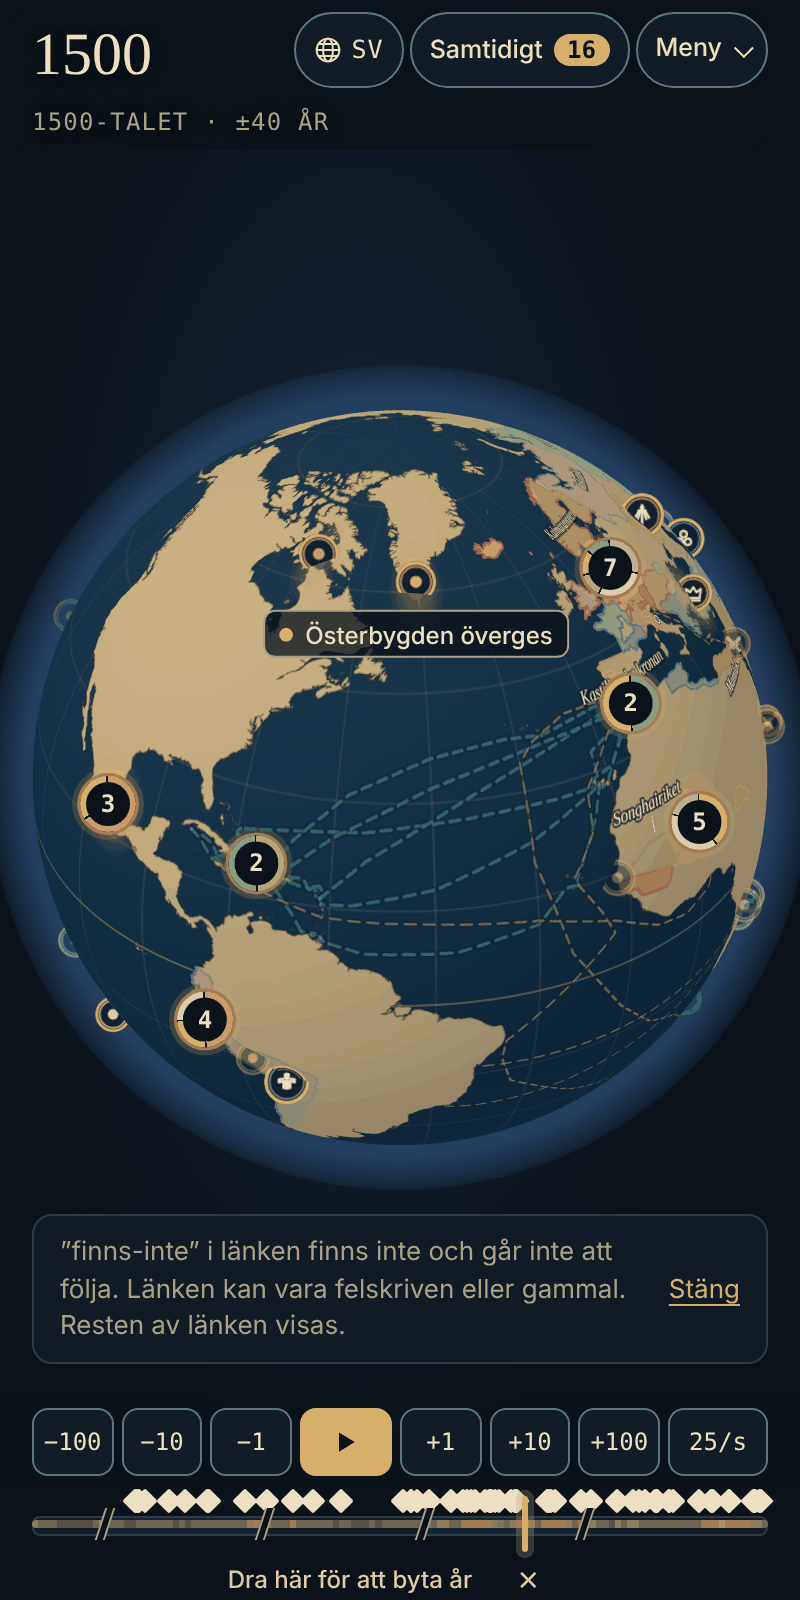
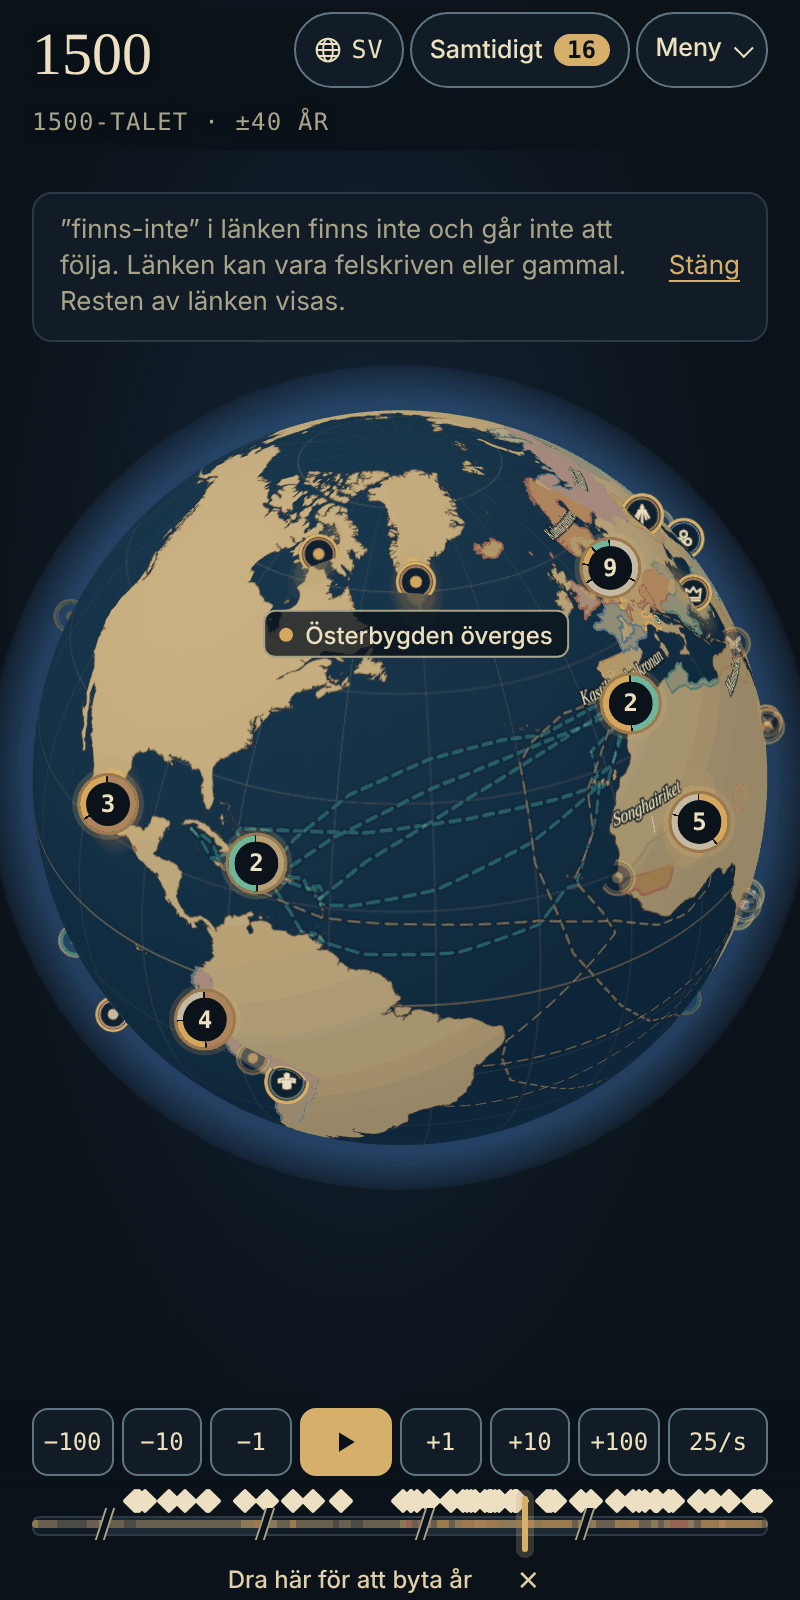
Trasig länk: raden under årtalet i smal skärm, nya skärmbilder och dokumentation (#1324)
Claude-Session: https://claude.ai/code/session_019xNoaCB1MahHDo2AS5QtEE

diff --git a/css/style.css b/css/style.css
@@ -1452,7 +1452,7 @@ details.used-by summary:hover { color: var(--parchment); }
 }
 .focus-notice[hidden] { display: none; }
 /* Besked om en trasig länk (#1324): samma plats och utseende som .focus-notice, men i lagret --z-band och med ogenomskinlig botten, så att
-   raden ligger över Samtidigt-kortet som startläget öppnar i mobil. Kortet tar emot klick (Stäng) medan statusraden runt det släpper
+   raden ligger över kort som ligger kvar (Samtidigt-kortet i bred skärm). Kortet tar emot klick (Stäng) medan statusraden runt det släpper
    igenom dem till kartan. */
 .link-notice {
   position: absolute; z-index: var(--z-band); left: 50%; bottom: 118px; transform: translateX(-50%);
@@ -1466,6 +1466,11 @@ details.used-by summary:hover { color: var(--parchment); }
 .link-notice-card[hidden] { display: none; }
 /* Visas Fokus-beskedet samtidigt (en trasig tur och ett tema som saknas i samma länk) ligger raden ovanför det, så att de inte täcker varandra */
 .focus-notice:not([hidden]) ~ .link-notice { bottom: 214px; }
+/* Smal skärm: raden ligger under årtalet i stället för över tidsreglaget, eftersom startläget öppnar Samtidigt-kortet som ett ark där nere och
+   raden inte ska dölja det. Himlen ovanför globen är tom, och inget ligger ovanpå förrän besökaren agerar (då stängs raden). */
+@media (max-width: 760px) {
+  .link-notice, .focus-notice:not([hidden]) ~ .link-notice { top: calc(env(safe-area-inset-top, 0px) + 96px); bottom: auto; }
+}
 .link-notice-text { margin: 0; flex: 1 1 auto; }
 .link-notice-card .link-btn { flex: none; min-height: 32px; font: inherit; white-space: nowrap; }
 @media (max-width: 760px) { .link-notice-card .link-btn { min-height: 44px; } }

diff --git a/docs/arkitektur.md b/docs/arkitektur.md
@@ -252,7 +252,7 @@ Vyn står i adressen efter `#`, så att en kopierad länk öppnar samma vy och B
 
 **Reserverat (#397):** `d` är reserverat för tidsdomänen i version 8 (människans eller jordens historia, tillståndets fält `domain`). Det skrivs inte än, och en länk med `d` öppnas som om fältet saknades. `RESERVED_HASH_FIELDS` i `js/url-state.js` och `RESERVED_STATE_KEYS` i `js/state.js` listar namnen, och testet stoppar en ändring som använder dem till något annat ([beslut](beslut/2026-11-13-tidsdoman-reserverad.md)).
 
-Lugn rörelse står inte i länken, eftersom det är besökarens egen inställning. Okända fält hoppas över, och en trasig länk (till exempel ett krig som inte finns) ger det vanliga startläget utan fel. Den äldre kortformen `?c=lat,lon,zoom` öppnar kameran vid startens år och skrivs sedan om till den vanliga hashen. **Trasig länk, felkanalen (#1324):** `decodeProblems(hash, search)` i `js/url-state.js` (ren funktion utan DOM, kastar aldrig) säger vad i en länk som inte gick att tolka, som en lista med `{ kind, why, value }`: `tour` (`t` eller `?tur=` med tecken som inget tur-id kan ha), `focus` (`f` som inte är `<typ>:<id>` med en typ ur `FOCUS_TYPES`, kontrollen delas via `parseFocusKey()` i `js/state.js`) och `year` (`y` som inte är ett tal; `y=` utan värde räknas som saknat). `decodeHash()` lägger listan i `problems` när något är trasigt (fältet saknas annars, så länkarkivet är oförändrat) och ersätter `focusError`; ett ogiltigt år ger fortfarande `null`. Det som bara datan kan avgöra lägger `js/controllers/address.js` till i samma lista: en tur som inte finns eller inte gick att hämta (`why: 'missing'` eller `'fetch'`, ur `app.lesson.whyNot`) och ett krig, rike, en religion eller resa som inte finns (typens `exists()`, eller att `startFocus` säger nej utan eget besked och utan att ett läge stod i vägen). Listan går till `js/controllers/link-notice.js`, som skriver en rad i `#link-notice` (`role="status"`, samma plats och utseende som `#focus-notice`, namnet ur adressen som `textContent`, kapat till 40 tecken): ett problem per slag, i ordningen tur, fokus, år. Länken öppnas som förut och adressen skrivs inte om till något annat än förut; tur- och lektionsläget rörs inte. En lektionslänk till en tur som saknas förklaras av lektionsbandet och får ingen andra rad, och en länk med en giltig tur läser inte resten. Raden stängs av Stäng, Escape, nästa handling, ett nytt år, uppspelning, Bakåt/Framåt, en öppnad yta och efter 30 sekunder, och är anmäld i stängregistret som gruppen `besked` (`js/surfaces.js`: den stänger inget, och varje annan grupp stänger den). Nästa adressdel, till exempel platsernas (#1162), lägger sina fel i samma lista. Beslut: [2026-11-14-trasig-lank-1324](beslut/2026-11-14-trasig-lank-1324.md).
+Lugn rörelse står inte i länken, eftersom det är besökarens egen inställning. Okända fält hoppas över, och en trasig länk (till exempel ett krig som inte finns) ger det vanliga startläget utan fel. Den äldre kortformen `?c=lat,lon,zoom` öppnar kameran vid startens år och skrivs sedan om till den vanliga hashen. **Trasig länk, felkanalen (#1324):** `decodeProblems(hash, search)` i `js/url-state.js` (ren funktion utan DOM, kastar aldrig) säger vad i en länk som inte gick att tolka, som en lista med `{ kind, why, value }`: `tour` (`t` eller `?tur=` med tecken som inget tur-id kan ha), `focus` (`f` som inte är `<typ>:<id>` med en typ ur `FOCUS_TYPES`, kontrollen delas via `parseFocusKey()` i `js/state.js`) och `year` (`y` som inte är ett tal; `y=` utan värde räknas som saknat). `decodeHash()` lägger listan i `problems` när något är trasigt (fältet saknas annars, så länkarkivet är oförändrat) och ersätter `focusError`; ett ogiltigt år ger fortfarande `null`. Det som bara datan kan avgöra lägger `js/controllers/address.js` till i samma lista: en tur som inte finns eller inte gick att hämta (`why: 'missing'` eller `'fetch'`, ur `app.lesson.whyNot`) och ett krig, rike, en religion eller resa som inte finns (typens `exists()`, eller att `startFocus` säger nej utan eget besked och utan att ett läge stod i vägen). Listan går till `js/controllers/link-notice.js`, som skriver en rad i `#link-notice` (`role="status"`, samma utseende som `#focus-notice`; över tidsreglaget i bred skärm och under årtalet i smal skärm, så att den inte döljer Samtidigt-arket; namnet ur adressen som `textContent`, kapat till 40 tecken): ett problem per slag, i ordningen tur, fokus, år. Länken öppnas som förut och adressen skrivs inte om till något annat än förut; tur- och lektionsläget rörs inte. En lektionslänk till en tur som saknas förklaras av lektionsbandet och får ingen andra rad, och en länk med en giltig tur läser inte resten. Raden stängs av Stäng, Escape, nästa handling, ett nytt år, uppspelning, Bakåt/Framåt, en öppnad yta och efter 30 sekunder, och är anmäld i stängregistret som gruppen `besked` (`js/surfaces.js`: den stänger inget, och varje annan grupp stänger den). Nästa adressdel, till exempel platsernas (#1162), lägger sina fel i samma lista. Beslut: [2026-11-14-trasig-lank-1324](beslut/2026-11-14-trasig-lank-1324.md).
 
 En tur i adressen (`t`, eller den äldre formen `?tur=<id>`) går före resten av länken; finns turen inte gäller resten av länken som vanligt. `?tur=` flyttas in i hashen när turen har startat.
 

diff --git a/docs/beslut/2026-11-14-trasig-lank-1324.md b/docs/beslut/2026-11-14-trasig-lank-1324.md
@@ -5,7 +5,7 @@
 ## Beslut
 1. **En felkanal i adressläsningen, inte en gren per typ.** `decodeProblems(hash, search)` i `js/url-state.js` är en ren funktion utan DOM som ger en lista med `{ kind, why, value }`: `tour` (t eller `?tur=` med tecken som inget tur-id kan ha), `focus` (f som inte är `<typ>:<id>` med en känd typ) och `year` (y som inte är ett tal). `decodeHash()` lägger samma lista i fältet `problems`, men bara när något är trasigt, och ersätter det halvbyggda `focusError` (som bara testet läste). Ett år som inte är ett tal ger fortfarande `null` från `decodeHash()`, så den länken läses med `decodeProblems()`. Det som bara datan kan avgöra (finns turen, finns kriget?) lägger `js/controllers/address.js` till i samma lista: `why` är då `missing`, eller `fetch` när turerna inte gick att hämta.
 2. **Länkarna öppnas som förut.** Felkanalen ändrar ingen tolkning och skriver inget i adressen: samma startläge, samma omskrivning av adressen, ingen ny blockering. Tillståndet, lägeskontraktet (`MODE_RULES` i `js/state.js`) och turläget och lektionsläget rörs inte. `parseFocusKey()` i `js/state.js` delar formkontrollen av `f` mellan `fromJSON` och felkanalen. Länkarkivet (#1326) ger inget problem.
-3. **En rad till besökaren** i samma utseende och på samma plats som Fokus-beskedet (`.focus-notice`): `#link-notice` med `role="status"` och `aria-live="polite"` (statusraden finns hela tiden så att skärmläsaren läser upp texten när kortet visas) och kortet `#link-notice-card` med texten och Stäng. Ytan har lagret `--z-fokus` (ingen ny lagernivå), tar aldrig fokus och skriver namnet ur adressen med `textContent`, kapat till 40 tecken och utan styrtecken. Raden säger vad som saknades och vad sidan visar i stället: turen, det som skulle följas, eller att året inte är ett tal. Ett problem per slag visas, och har länken flera fel står de i samma rad. Koden står i `js/controllers/link-notice.js`.
+3. **En rad till besökaren** i samma utseende och på samma plats som Fokus-beskedet (`.focus-notice`): `#link-notice` med `role="status"` och `aria-live="polite"` (statusraden finns hela tiden så att skärmläsaren läser upp texten när kortet visas) och kortet `#link-notice-card` med texten och Stäng. I bred skärm ligger raden över tidsreglaget (och ovanför Fokus-beskedet när båda syns); i smal skärm (högst 760 px) ligger den under årtalet, eftersom startläget öppnar Samtidigt-kortet som ett ark längst ned och raden annars skulle dölja det (valt framför att fälla ihop kortet: det enklaste som inte döljer något och inte ändrar ett annat kort). Ytan har lagret `--z-band` (ingen ny lagernivå) och en ogenomskinlig botten, tar aldrig fokus och skriver namnet ur adressen med `textContent`, kapat till 40 tecken och utan styrtecken. Raden säger vad som saknades och vad sidan visar i stället: turen, det som skulle följas, eller att året inte är ett tal. Ett problem per slag visas, och har länken flera fel står de i samma rad. Koden står i `js/controllers/link-notice.js`.
 4. **Raden stängs** av Stäng, Escape, nästa handling (tryck, hjul eller en tangent utom Tab och tillägg), ett nytt år, uppspelning, Bakåt/Framåt, en öppnad meny, panel, popover, dialog eller jakt, och efter 30 sekunder. Den är anmäld i stängregistret (`js/surfaces.js`) i den nya gruppen `besked`: den stänger inget, varje annan grupp stänger den, och Escape tar den efter dialog, popover och jakt.
 5. **En lektionslänk till en tur som saknas** förklaras av lektionsbandet (#877) och får inte en andra rad. En länk med en giltig tur läser inte resten och ger ingen rad. Ett fokus som redan har eget besked (ett tema eller en plats som saknas, `focus-notice`) får inte en andra rad.
 6. **Texter** i `data/ui/{sv,en,de,es,fr}.json` (`link.noTour`, `link.tourFetch`, `link.noFocus`, `link.badYear`), med artigt tilltal i alla språk och ordet "Fokus" undvikt enligt ordvalet i #1140. Adressen får inget nytt fält.

diff --git a/docs/produkt/05-ux-oversikt.md b/docs/produkt/05-ux-oversikt.md
@@ -52,7 +52,7 @@ Antagna "lyckade vägar". Varje flöde är också en testplan: den som granskar 
 7. **Rapportera fel:** faktaruta → Rapportera faktafel.
 8. **Följ ett tema:** Sök och följ → första gruppen Teman → introduktionskort → välj händelser eller spela genom urvalet → Avsluta temat. På mobil är händelselistan hopfälld; Escape stänger först kortet och därefter temat.
 
-**Trasig länk (#1324):** en delad länk med ett skrivfel (en tur, ett krig eller ett år som inte finns) öppnas som förut, men en rad ovanför tidsreglaget säger vad som saknades och vad sidan visar i stället (”Turen ’…’ finns inte. Länken kan vara felskriven eller gammal. Globen visas utan turen.”). Raden är en status för skärmläsare, tar inte fokus, har Stäng och försvinner vid nästa handling, ett nytt år, Escape eller efter 30 sekunder. En lektionslänk till en lektion som saknas förklaras som förut av lektionsbandet, utan en andra rad. Läraren som delar en länk bör öppna den själv först. Skärmbilder: `docs/ux-review/trasig-lank-1324/`.
+**Trasig länk (#1324):** en delad länk med ett skrivfel (en tur, ett krig eller ett år som inte finns) öppnas som förut, men en rad (över tidsreglaget i bred skärm, under årtalet på mobil) säger vad som saknades och vad sidan visar i stället (”Turen ’…’ finns inte. Länken kan vara felskriven eller gammal. Globen visas utan turen.”). Raden är en status för skärmläsare, tar inte fokus, har Stäng och försvinner vid nästa handling, ett nytt år, Escape eller efter 30 sekunder. En lektionslänk till en lektion som saknas förklaras som förut av lektionsbandet, utan en andra rad. Läraren som delar en länk bör öppna den själv först. Skärmbilder: `docs/ux-review/trasig-lank-1324/`.
 
 **Visste du? (#997):** knappen visar nästa målår före hoppet. Efter hoppet finns raden ”Från … · Tillbaka” under årtalet; ett tryck återställer året, globens riktning och zoom. Raden försvinner efter tjugo sekunder eller nästa handling, medan webbläsarens Bakåt/Framåt också fungerar. Lugn rörelse följer besökarens inställning.
 
